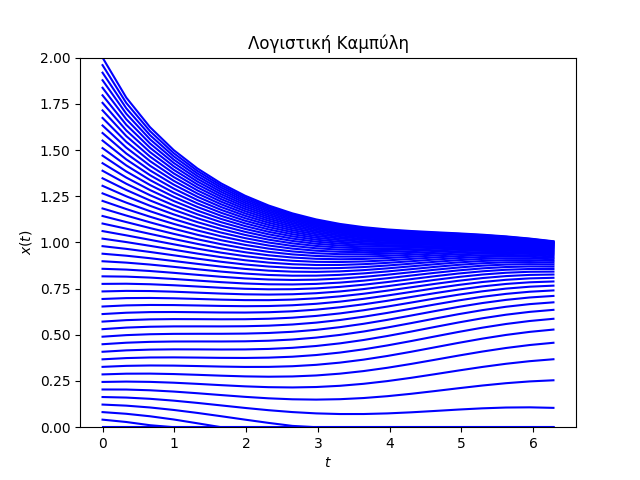
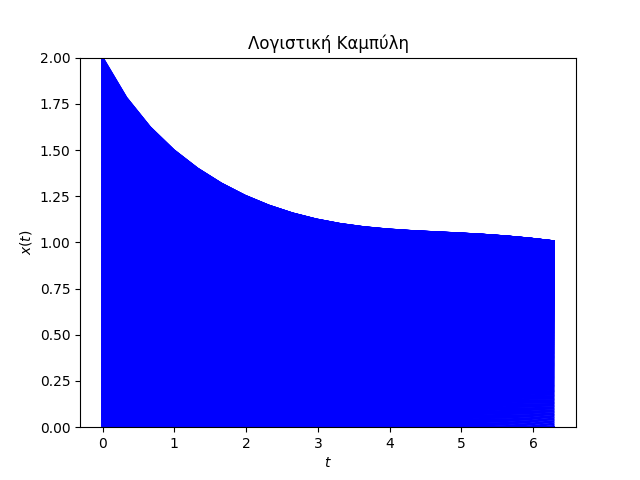
ex1

Changed region(s): [[0.1562, 0.125, 0.875, 0.9062]]

diff --git a/Python/Askisi_4/ex1.py b/Python/Askisi_4/ex1.py
@@ -1,0 +1,63 @@
+import numpy as np
+import matplotlib.pyplot as plt
+import os,sys,inspect
+
+currentdir = os.path.dirname(os.path.abspath(inspect.getfile(inspect.currentframe())))
+parentdir = os.path.dirname(currentdir)
+sys.path.insert(0,parentdir) 
+
+from funcs import NonLinear
+
+system = NonLinear(2,0.1)
+
+x=np.zeros(system.stepsnumber)
+t=np.linspace(0,2*np.pi,system.stepsnumber)
+h=np.linspace(0, 1/4, 1000)
+
+x0=np.linspace(0.01,1.2,len(h))
+x1=[]
+x2=[]
+fm=[]
+fp=[]
+for i in np.arange(len(x0)):
+    if x0[i] < 0.5:
+        x1 = np.append(x1, x0[i])
+    else:
+        x2 = np.append(x2, x0[i])
+
+P=np.zeros(len(h))
+
+for k in np.arange(len(h)):
+    for j in np.arange(len(x0)):
+        x[0]=x0[j]
+        for i in np.arange(1, system.stepsnumber):
+            system.hgompertz(x[i-1], h[k])
+            x[i]=x[i-1]+system.hgomp
+            
+            if x[i]<=0:
+                x[i]=0.000000000000001
+                
+        P[k]=x[i]
+
+
+    idx1 = (np.abs(P[0:len(x1)] - x1)).argmin()
+    fm=np.append(fm, x1[idx1])
+    idx2 = (np.abs(P[len(x1):] - x2)).argmin()
+    fp=np.append(fp, x2[idx2])
+    
+hp=(1+np.sqrt(1-(4*h)))/2
+hm=(1-np.sqrt(1-4*h))/2
+
+
+plt.plot(h, fm, '--r')
+plt.plot(h, fp, 'b')
+#plt.plot(h, hp, '--k')
+#plt.plot(h, hm, '--k')
+plt.title('Διάγραμα Διακλάδωσης για τη χρονοανεξάρτητη μορφή.')
+plt.xlabel('$h$')
+plt.ylabel('$X_e(h)$')
+plt.savefig('Fig/hgomp.png')
+
+plt.show()
+print(len(hp))
+

diff --git a/Python/Askisi_4/ex1_1.py b/Python/Askisi_4/ex1_1.py
@@ -1,0 +1,62 @@
+import numpy as np
+import matplotlib.pyplot as plt
+import os,sys,inspect
+
+currentdir = os.path.dirname(os.path.abspath(inspect.getfile(inspect.currentframe())))
+parentdir = os.path.dirname(currentdir)
+sys.path.insert(0,parentdir) 
+
+from funcs import NonLinear
+
+system = NonLinear(2,0.1)
+
+x=np.zeros(system.stepsnumber)
+t=np.linspace(0,2*np.pi,system.stepsnumber)
+h=np.linspace(0, 1/4, 1000)
+
+x0=np.linspace(0.01,1.2,len(h))
+x1=[]
+x2=[]
+fm=[]
+fp=[]
+for i in np.arange(len(x0)):
+    if x0[i] < 0.5:
+        x1 = np.append(x1, x0[i])
+    else:
+        x2 = np.append(x2, x0[i])
+
+P=np.zeros(len(h))
+
+for k in np.arange(len(h)):
+    for j in np.arange(len(x0)):
+        x[0]=x0[j]
+        for i in np.arange(1, system.stepsnumber):
+            system.htgompertz(x[i-1], h[k], t[i])
+            x[i]=x[i-1]+system.hgompt
+            
+            if x[i]<=0:
+                x[i]=0.000000000000001
+                
+        P[k]=x[i]
+
+
+    idx1 = (np.abs(P[0:len(x1)] - x1)).argmin()
+    fm=np.append(fm, x1[idx1])
+    idx2 = (np.abs(P[len(x1):] - x2)).argmin()
+    fp=np.append(fp, x2[idx2])
+    
+hp=(1+np.sqrt(1-(4*h)))/2
+hm=(1-np.sqrt(1-(4*h)))/2
+
+
+
+plt.plot(h, fm, '--r')
+plt.plot(h, fp, 'b')
+#plt.plot(h, hp, '--k')
+#plt.plot(h, hm, '--k')
+plt.title('Διάγραμα Διακλάδωσης για τη χρονοεξαρτώμενη μορφή.')
+plt.xlabel('$h$')
+plt.ylabel('$X_e(h)$')
+plt.savefig('Fig/hgompt.png')
+
+plt.show()

diff --git a/Python/Askisi_3/branchh.py b/Python/Askisi_3/branchh.py
@@ -12,31 +12,34 @@ system = NonLinear(2,0.1)
 
 x=np.zeros(system.stepsnumber)
 t=np.linspace(0,2*np.pi,system.stepsnumber)
+h=np.linspace(0, 1/2, 10)
 
-x0=np.linspace(0,2,1050)
-P=np.zeros(1050)
-PP=np.zeros(1050)
+x0=np.linspace(0,2,1000)
+P=np.zeros(1000)
 
-for k in np.arange(len(x0)):
+ex=[]
+ep=[]
+for k in np.arange(len(h)):
+
     for j in np.arange(len(x0)):
         x[0]=x0[j]
 
         for i in np.arange(1, system.stepsnumber):
-            system.helogistic(x[i-1], 1/8, 1, t[i])
+            system.helogistic(x[i-1], h[k], 1, t[i])
             x[i]=x[i-1]+system.helogdt
             if x[i] <=0:
                 x[i]=0
             
         P[j]=x[i]
-    PP[k]=P[j]
-idx = np.argwhere(np.diff(np.sign(PP - P))).flatten()
-print(P[idx], PP[idx])
-plt.plot(P[idx], PP[idx], 'ro')
-plt.plot(x0, PP, 'g')
-plt.plot(x0, P, 'b')
-plt.plot(x0, x0, '--r')
-#plt.title('Απεικόνιση Poincare της Απεικόνισης Poincare')
-plt.xlabel('$x$')
-plt.ylabel('$P(P(x))$')
-plt.savefig('Fig/ppoinc.png')
+
+    idx = np.argwhere(np.diff(np.sign(P - x0))).flatten()
+    plt.plot(x0[idx], P[idx], 'ro')
+    np.append(x0[idx], ex)
+    #plt.plot(x0, P, 'b')
+print(ex)
+#plt.plot(x0, x0, '--r')
+#plt.title('Απεικόνιση Poincare για μεταβλητό $h$')
+#plt.xlabel('$x$')
+#plt.ylabel('$P(x)$')
+plt.savefig('Fig/poinc_pp.png')
 plt.show()

diff --git a/Python/funcs.py b/Python/funcs.py
@@ -36,4 +36,20 @@ class NonLinear:
         self.signdt = val*self.dt
         return self
         
+    def hgompertz(self, c, h):
+        val = -(c*np.log(c))-h
+        self.hgomp=val*self.dt
+        return self
+        
+    def htgompertz(self, c, h, t):
+        val = -(c*np.log(c))-h*(1+np.sin(t))
+        self.hgompt=val*self.dt
+        return self
+        
+    def xsq(self, c, t):
+        val = x*2-1-np.cos(t)
+        self.xqrd = val*self.dt
+        return self
+            
+        
 

diff --git a/Python/Askisi_3/poinlog_chh.py b/Python/Askisi_3/poinlog_chh.py
@@ -34,8 +34,8 @@ for k in np.arange(len(h)):
         plt.plot(x0, P, 'b')
         PP[l]=P[j]
     idx = np.argwhere(np.diff(np.sign(PP - x0))).flatten()
-    print(P[idx], P[idx])
-    plt.plot(P[idx], PP[idx], 'ro')
+    print(x0[idx], PP[idx])
+    plt.plot(x0[idx], PP[idx], 'ro')
     plt.plot(x0, PP, 'g')
 
 plt.plot(x0, x0, '--r')

diff --git a/Python/Askisi_3/helogistic.py b/Python/Askisi_3/helogistic.py
@@ -13,9 +13,8 @@ system = NonLinear(2,0.1)
 x=np.zeros(system.stepsnumber)
 t=np.linspace(0,2*np.pi,system.stepsnumber)
 
-x0=np.linspace(0,2,50)
-P=np.zeros(50)
-PP=np.zeros(50)
+x0=np.linspace(0,2,1050)
+P=np.zeros(1050)
 
 plt.figure(1)
 plt.title('Λογιστική Καμπύλη')

diff --git a/Python/Askisi_3/poinlog_che.py b/Python/Askisi_3/poinlog_che.py
@@ -34,7 +34,7 @@ for k in np.arange(len(e)):
         plt.plot(x0, P, 'b')
         PP[l]=P[j]
     idx = np.argwhere(np.diff(np.sign(PP - x0))).flatten()
-    print(x0[idx], P[idx])
+    print(x0[idx], PP[idx])
     plt.plot(x0[idx], PP[idx], 'ro')
     plt.plot(x0, PP, 'g')
 
